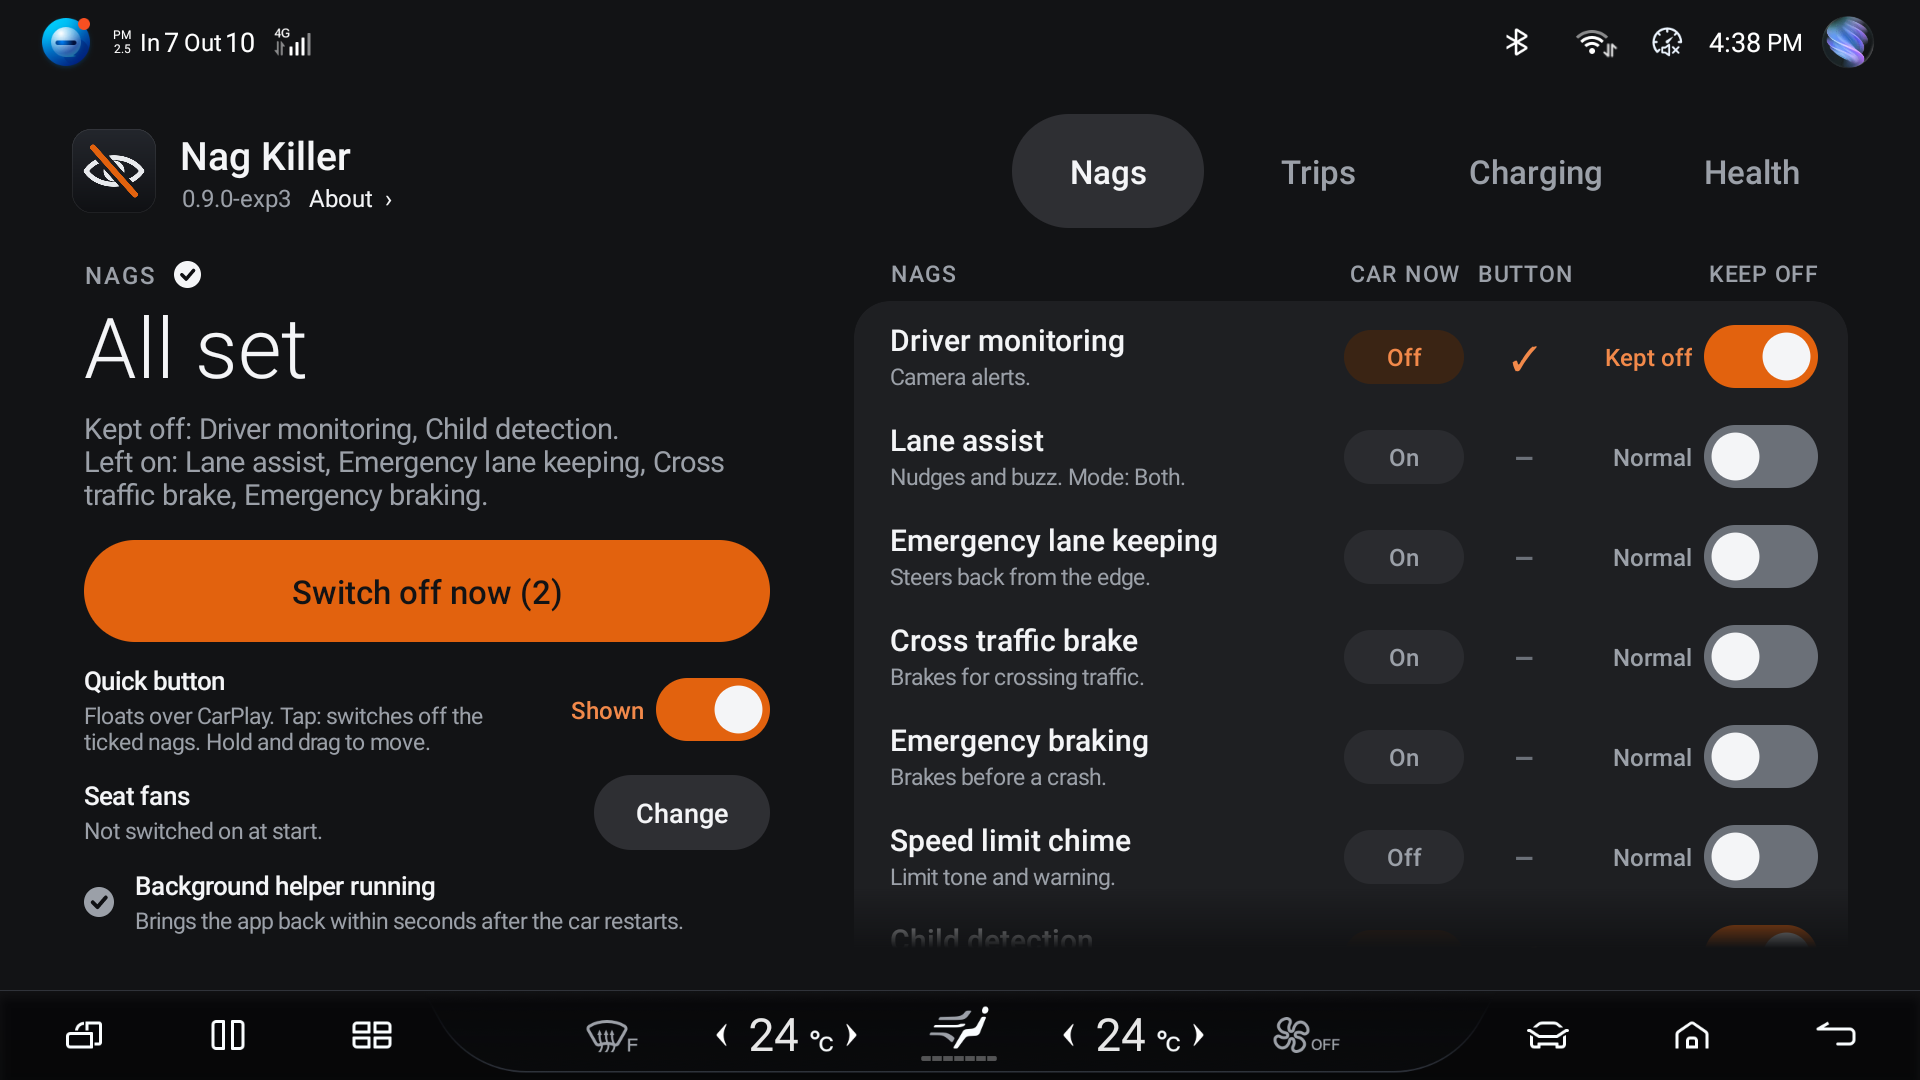
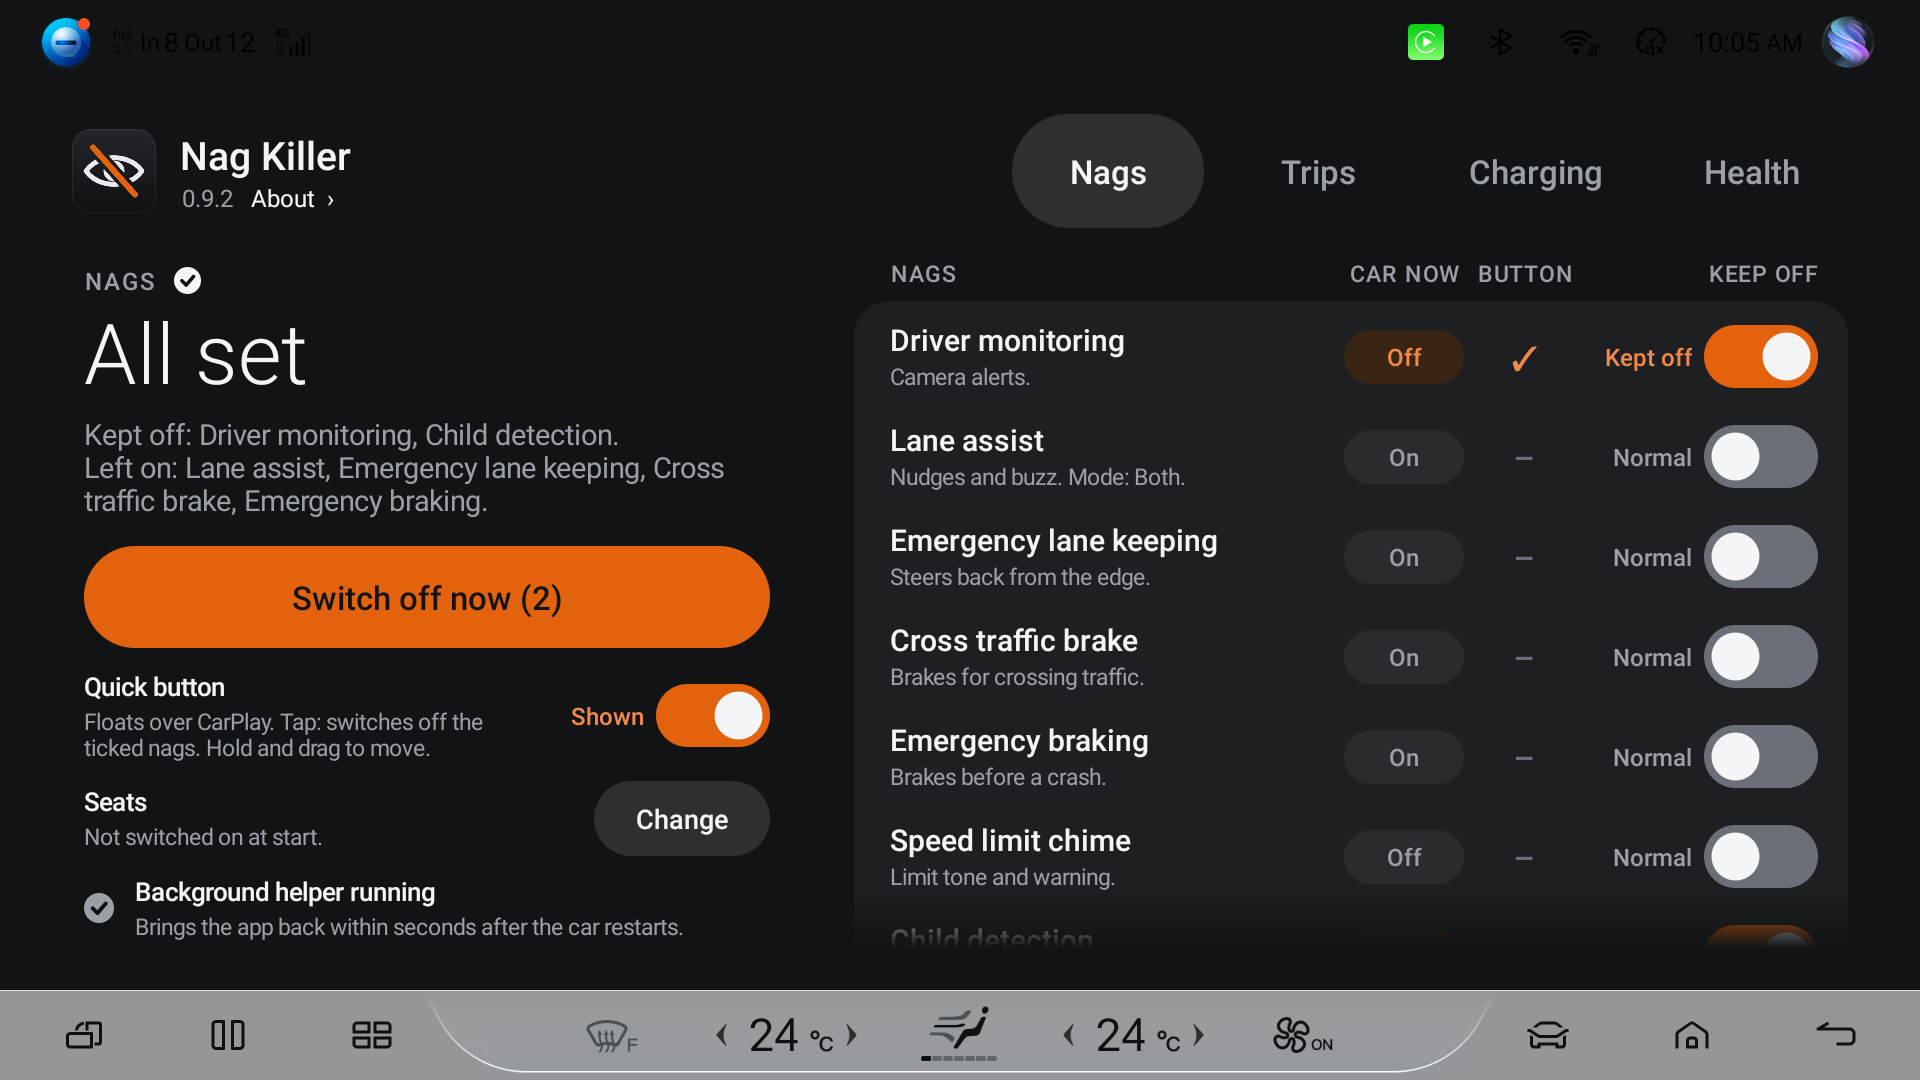
README for 0.9.2: Seats section with a picture of the box, new main screen picture, seat positions move and save (owner tried both on the car 26 Nov 2026), codes for seat heat and the two seat memory calls

diff --git a/README.md b/README.md
@@ -4,7 +4,7 @@
 
 An Android app that runs on the car's screen and keeps the nags you don't want switched off,
 every time you start the car. It can also put your seat fans or seat heat on for you at every
-start, and it keeps a log of your trips and charges and a battery health figure
+start, move the driver's seat to a saved position in one tap, and it keeps a log of your trips and charges and a battery health figure
 ([see below](#trips-charging-and-health)).
 
 It can turn off:
@@ -46,11 +46,13 @@ in and tap, instead of climbing in to reach the car's menu. Hold a button to sav
 is now as that position. It only works in Park, and the app never moves the seat by itself. New
 in 0.9.2.
 
+![The Seats box](img/seats.png)
+
 ## Trips, Charging and Health
 
 The car keeps no history of its own, so the app keeps it for you: every drive, every charge
 and what it cost, what you've saved against petrol, and an honest battery health figure you
-can show a buyer when you sell the car. New in 0.9.0. The nags and seat fans work the same as
+can show a buyer when you sell the car. New in 0.9.0. The nags and seats work the same as
 before.
 
 Everything stays on the car. None of it is sent anywhere.
@@ -119,8 +121,8 @@ Tested on my car:
 * Seat heat (26 Nov 2026): Low, High and Off on both front seats from the app, and it comes
   back on after the app is restarted the way the car restarts it. Not yet seen over a real
   car off and on.
-* Position 1 and Position 2 move the driver's seat to the saved positions (26 Nov 2026).
-  Saving a position from the app (the hold) hasn't been tried on a car yet.
+* Position 1 and Position 2 move the driver's seat to the saved positions, and a hold saves
+  where the seat is now (26 Nov 2026).
 * The battery test, once: 8% to 100% on a 7 kW wallbox took 75.6 kWh into the battery, a full
   battery of 82.6 kWh at 5,560 km. The charger showed 81.4 kWh, so 93% reached the battery.
 
@@ -249,8 +251,7 @@ On my car: DMS, lane assist, child detection, the speed chime, AEB, cross traffi
 emergency lane keeping all go off and come back properly, they're switched off again after a
 restart, the app comes back after the car turns off and after the screen reboots, and it
 survives a night parked. Seat fans come back on at Low or High after a restart. Seat heat
-switches from the app, and the seat position buttons move the seat. Saving a position from the
-app hasn't been tried on a car yet. Trips, Charging and Health have their own list above. The over-limit warning switch hasn't been confirmed yet because it
+switches from the app, and the seat position buttons move the seat and save a position. Trips, Charging and Health have their own list above. The over-limit warning switch hasn't been confirmed yet because it
 was already off on my car.
 
 ## Other BYDs
@@ -383,8 +384,8 @@ AU car, the climate app uses 462 and 459. Switching a seat's heat on switches it
 the other way round.
 
 173 is called "reset" but it's the recall: it's what the Position buttons on the car's own seat
-screen send on a tap (a hold sends 254). 173 moves the seat on my car; 254 hasn't been tried
-on a car yet.
+screen send on a tap, and a hold sends 254. Both work from the app on my car. Neither call
+answers with a result, so there's nothing to read back.
 
 The write calls don't say whether the car accepted the change, so the app reads it back.
 
